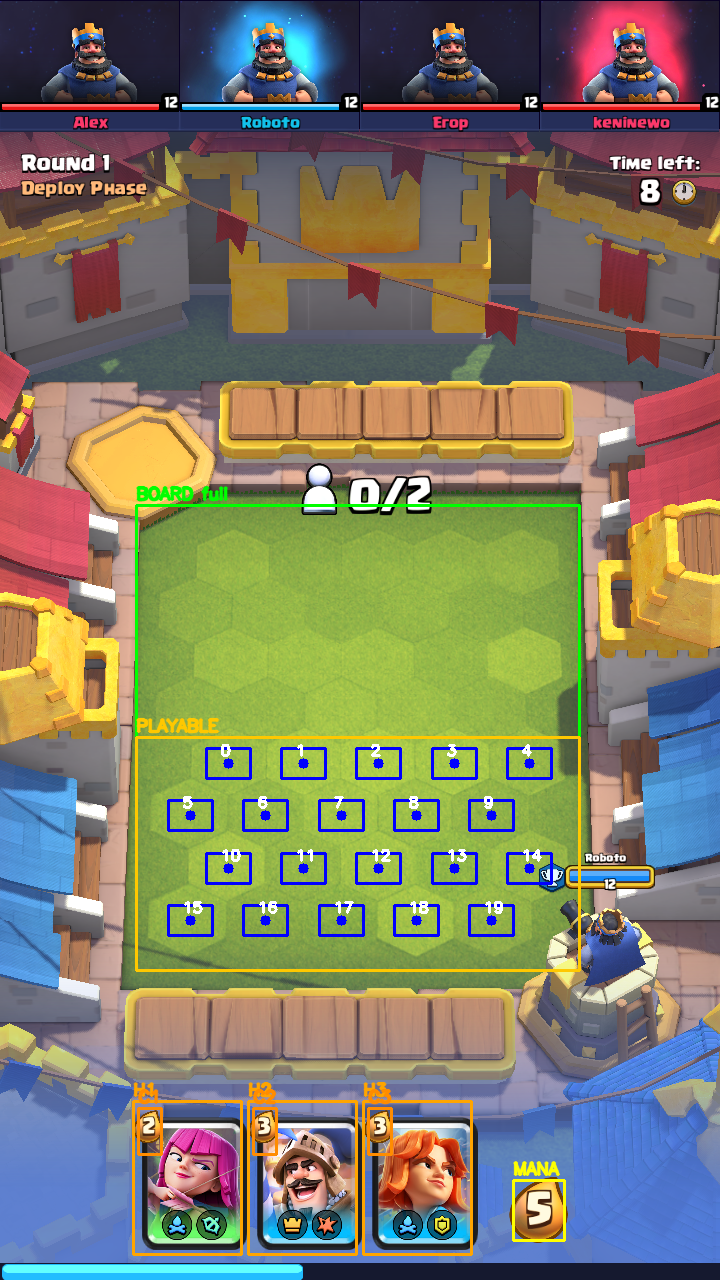
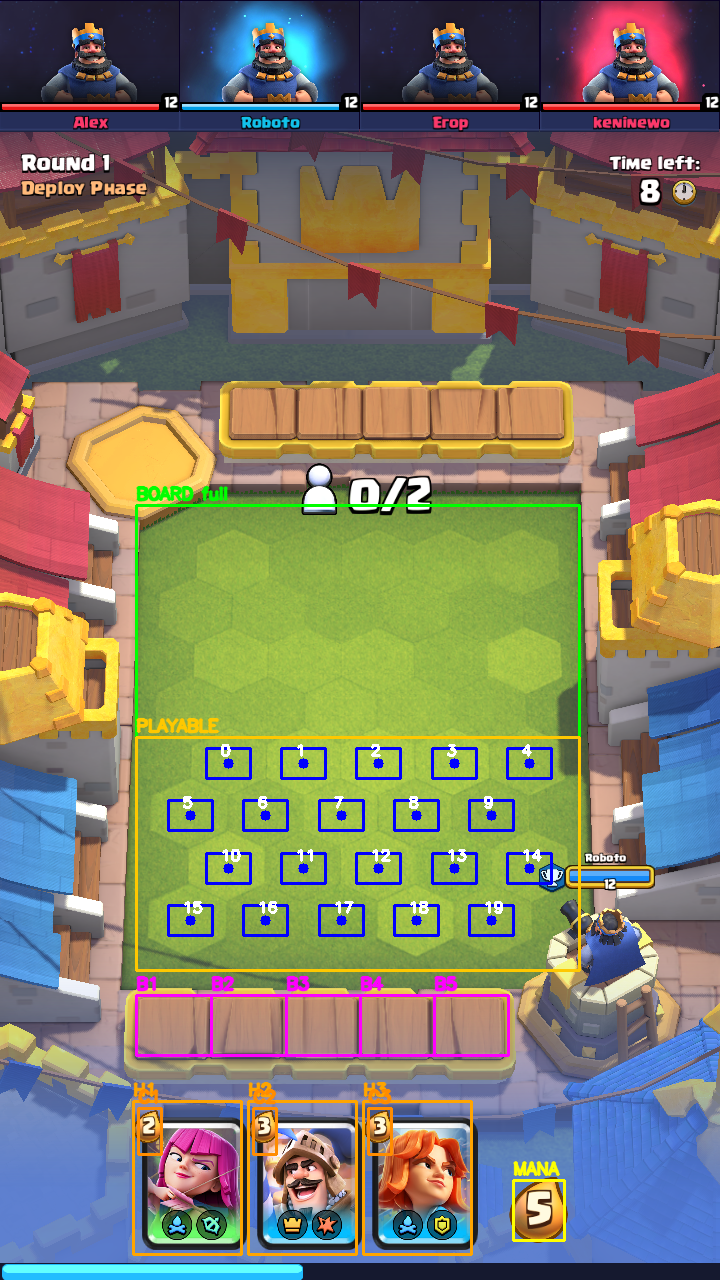
Add bench to geometry.json

diff --git a/generate-geometry.py b/generate-geometry.py
@@ -125,6 +125,54 @@ def detect_mana_roi(hsv):
     return {"x": 0.86, "y": 0.90, "w": 0.10, "h": 0.07}
 
 
+def compute_bench_slots(playable_rect_px, hand_boxes_norm, W, H, n_slots=5, bench_width_factor=0.84):
+    """
+    Build n_slots contiguous bench rectangles between the bottom of the playable board and the top of the hand.
+    The bench is left-aligned to the playable board's left edge but only uses a fraction of its width.
+      - bench_width_factor: fraction of playable width to occupy (0<factor<=1), e.g. 0.86
+      - left-most slot aligns to playable left; remaining width becomes a right margin.
+    """
+    bx, by, bw, bh = playable_rect_px
+    board_bottom = by + bh
+
+    if not hand_boxes_norm:
+        return []
+
+    # Hand top (from first hand box)
+    hb = hand_boxes_norm[0]
+    hand_top_px = int(hb["cy"] * H - (hb["h"] * H) / 2)
+
+    # Vertical band between board bottom and hand top (with a small pad)
+    pad = int(0.02 * H)
+    y0 = board_bottom + pad
+    y1 = hand_top_px - pad
+    if y1 <= y0:
+        band_h = int(0.08 * H)
+        y0 = board_bottom + pad
+        y1 = y0 + band_h
+    band_h = y1 - y0 - 20
+
+    # Bench width is a fraction of the playable width, anchored to the left
+    bench_w = int(bw * bench_width_factor)
+    bench_x0 = bx  # left-aligned
+    # right margin exists implicitly: (bx + bw) - (bench_x0 + bench_w)
+
+    # Make contiguous slot widths that sum exactly to bench_w
+    base_w = bench_w // n_slots
+    remainder = bench_w % n_slots  # distribute leftover 1px across first 'remainder' slots
+
+    slots = []
+    x_cursor = bench_x0
+    for i in range(n_slots):
+        w_i = base_w + (1 if i < remainder else 0)
+        slots.append(to_norm_rect(x_cursor, y0, w_i, band_h, W, H))
+        x_cursor += w_i
+
+    return slots
+    
+    
+
+
 def main():
     parser = argparse.ArgumentParser()
     parser.add_argument("--img", type=Path, default=Path("screenshots/beginning-board.png"))
@@ -180,12 +228,15 @@ def main():
 
     mana_roi = detect_mana_roi(hsv)
 
+    bench_slots = compute_bench_slots(playable_rect, hand, W, H, n_slots=5)
+
     geometry = {
         "image_basis": str(args.img.name),
         "resolution_px": [W, H],
         "board_rect_full": full_norm,
         "board_rect_playable": playable_norm,
         "board": {"rows": args.rows, "cols": args.cols, "tiles": tiles},
+        "bench": {"slots": bench_slots},
         "hand": hand,
         "mana_roi": mana_roi,
     }
@@ -212,6 +263,11 @@ def main():
         cv2.circle(overlay, (cx, cy), 5, (255, 0, 0), -1)
         cv2.putText(overlay, f"{i}", (cx - 8, cy - 8),
                     cv2.FONT_HERSHEY_SIMPLEX, 0.5, (255, 255, 255), 2)
+        
+    # draw bench slots
+    for i, s in enumerate(bench_slots):
+        sx, sy, sw, sh = to_abs_rect(s, W, H)
+        draw_labeled_rect(overlay, (sx, sy, sw, sh), (255, 0, 255), f"B{i+1}")
 
     # draw hand boxes and cost sub-ROIs
     for i, hbox in enumerate(hand):
